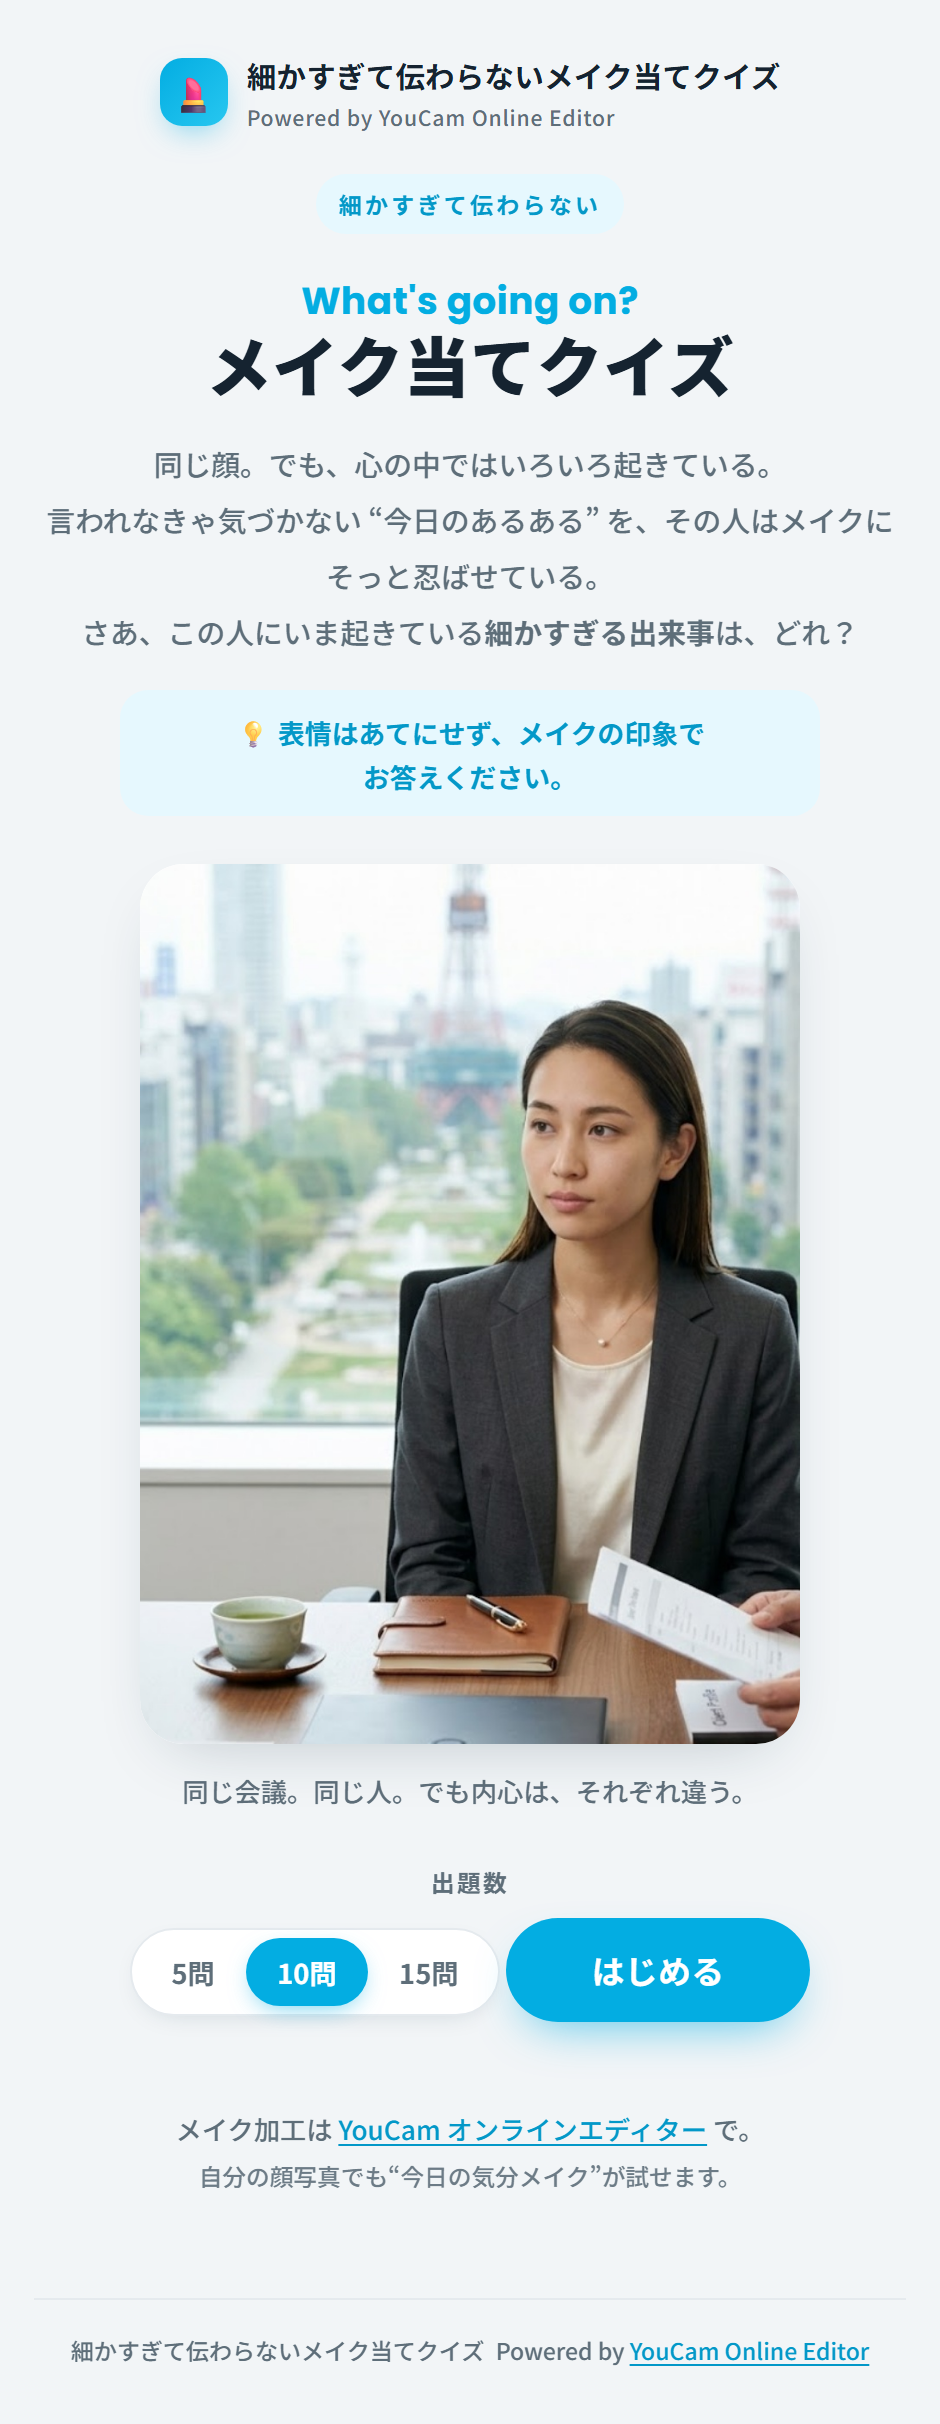
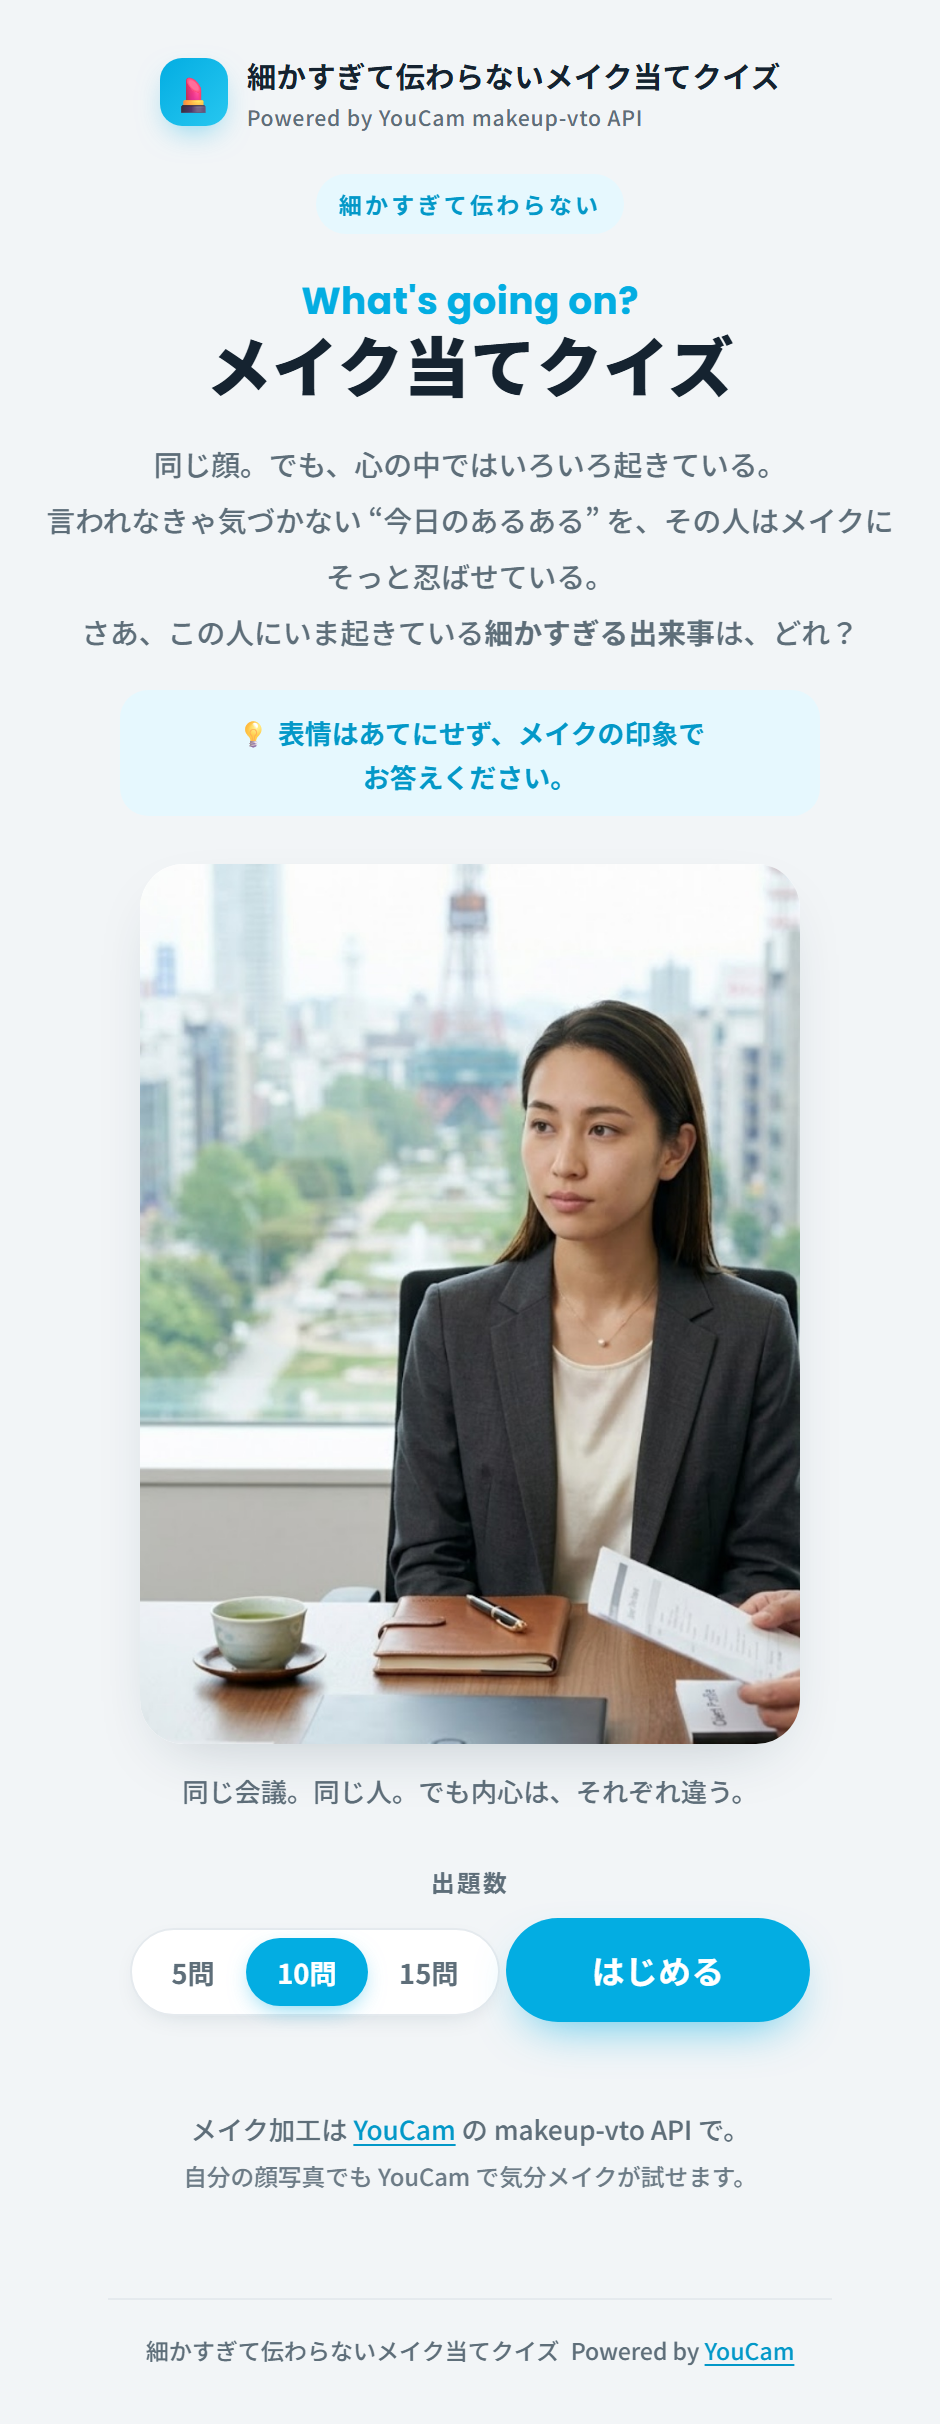
fix: メイク加工のクレジットを実態どおり「YouCam makeup-vto API」に修正（オンラインエディター表記をやめる）

diff --git a/index.html b/index.html
@@ -21,7 +21,7 @@
 
   <div class="brand">
     <span class="brand-logo">💄</span>
-    <span class="brand-name">細かすぎて伝わらないメイク当てクイズ<small>Powered by YouCam Online Editor</small></span>
+    <span class="brand-name">細かすぎて伝わらないメイク当てクイズ<small>Powered by YouCam makeup-vto API</small></span>
   </div>
 
   <!-- ============ TITLE ============ -->
@@ -56,8 +56,8 @@
     </div>
 
     <p class="credit">
-      メイク加工は <a id="yc-link-1" href="https://yce.perfectcorp.com/ja?affiliate=zennfes_spring_2026" target="_blank" rel="noopener">YouCam オンラインエディター</a> で。
-      <span class="tiny">自分の顔写真でも“今日の気分メイク”が試せます。</span>
+      メイク加工は <a id="yc-link-1" href="https://yce.perfectcorp.com/ja?affiliate=zennfes_spring_2026" target="_blank" rel="noopener">YouCam</a> の makeup-vto API で。
+      <span class="tiny">自分の顔写真でも YouCam で気分メイクが試せます。</span>
     </p>
   </section>
 
@@ -77,7 +77,7 @@
       <div class="face-frame">
         <img id="face-img" alt="シチュエーション写真" />
       </div>
-      <figcaption class="face-credit">メイク加工：<a href="https://yce.perfectcorp.com/ja?affiliate=zennfes_spring_2026" target="_blank" rel="noopener">YouCam オンラインエディター</a></figcaption>
+      <figcaption class="face-credit">メイク加工：<a href="https://yce.perfectcorp.com/ja?affiliate=zennfes_spring_2026" target="_blank" rel="noopener">YouCam</a> makeup-vto API</figcaption>
     </figure>
 
     <div id="choices" class="choices"><!-- 4択カード --></div>
@@ -114,7 +114,7 @@
 
 <footer class="site-foot">
   <span>細かすぎて伝わらないメイク当てクイズ</span>
-  <span>Powered by <a href="https://yce.perfectcorp.com/ja?affiliate=zennfes_spring_2026" target="_blank" rel="noopener">YouCam Online Editor</a></span>
+  <span>Powered by <a href="https://yce.perfectcorp.com/ja?affiliate=zennfes_spring_2026" target="_blank" rel="noopener">YouCam</a></span>
 </footer>
 
 <script type="module" src="app.js"></script>

diff --git a/article.md b/article.md
@@ -6,7 +6,7 @@ topics: ["youcam", "個人開発", "javascript", "api", "zennfes"]
 published: false
 ---
 
-> ZennFes Spring 2026 の参加作品です。メイク加工はすべて [YouCam オンラインエディター／API](https://yce.perfectcorp.com/ja?affiliate=zennfes_spring_2026) を使っています。
+> ZennFes Spring 2026 の参加作品です。メイク加工はすべて [YouCam](https://yce.perfectcorp.com/ja?affiliate=zennfes_spring_2026) の makeup-vto API を使っています。
 
 ## きっかけ
 
